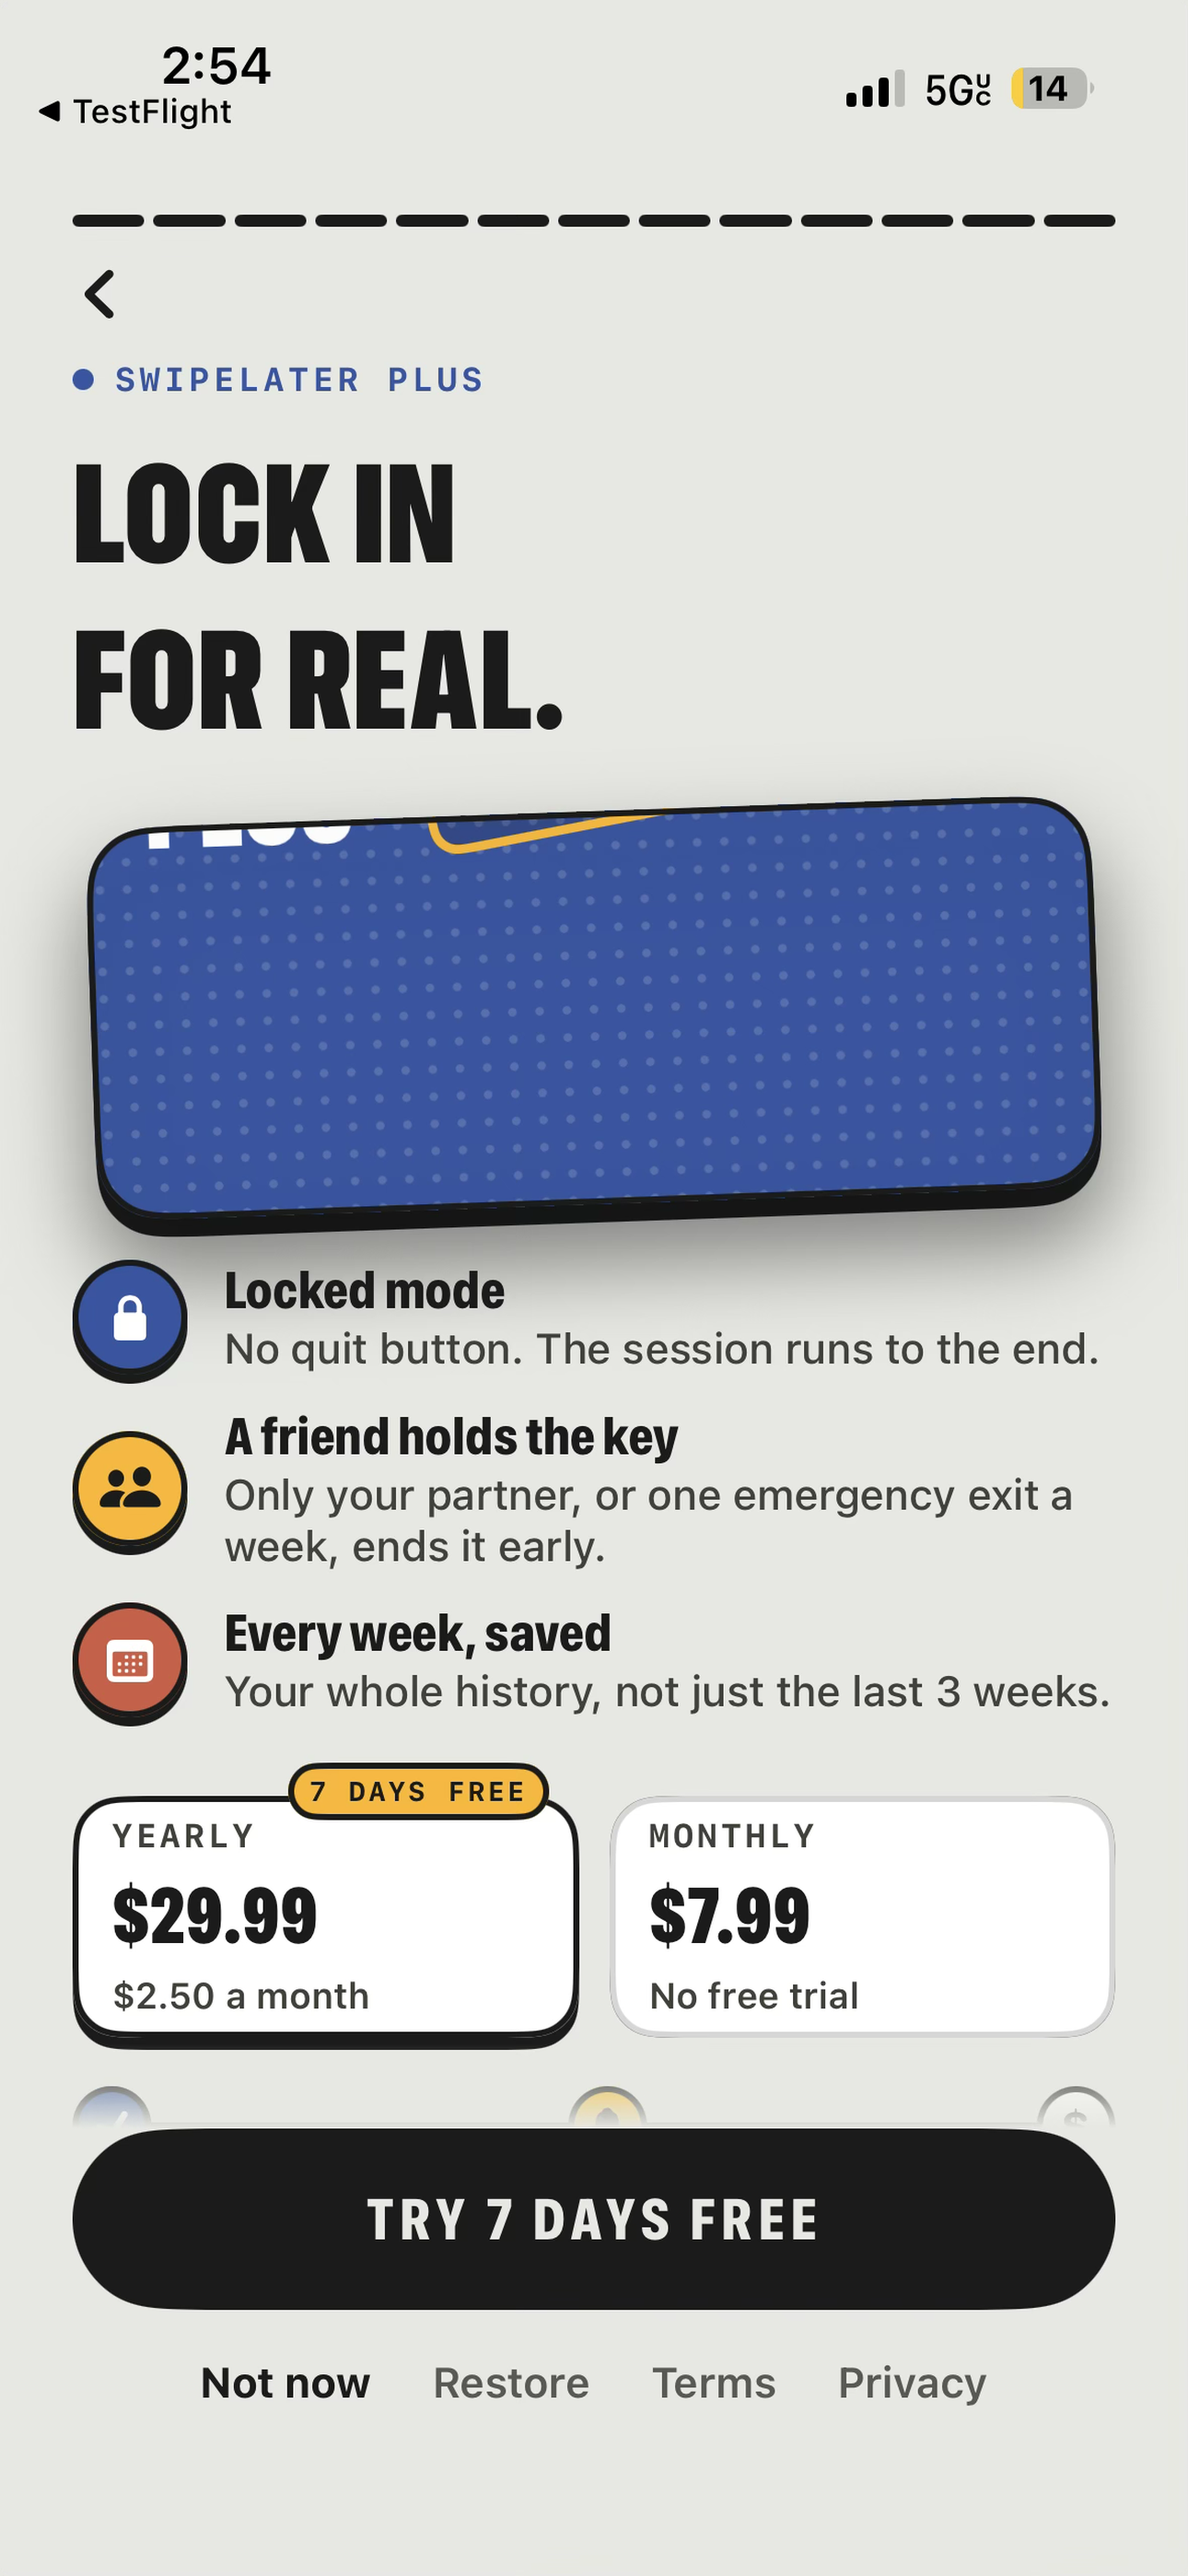
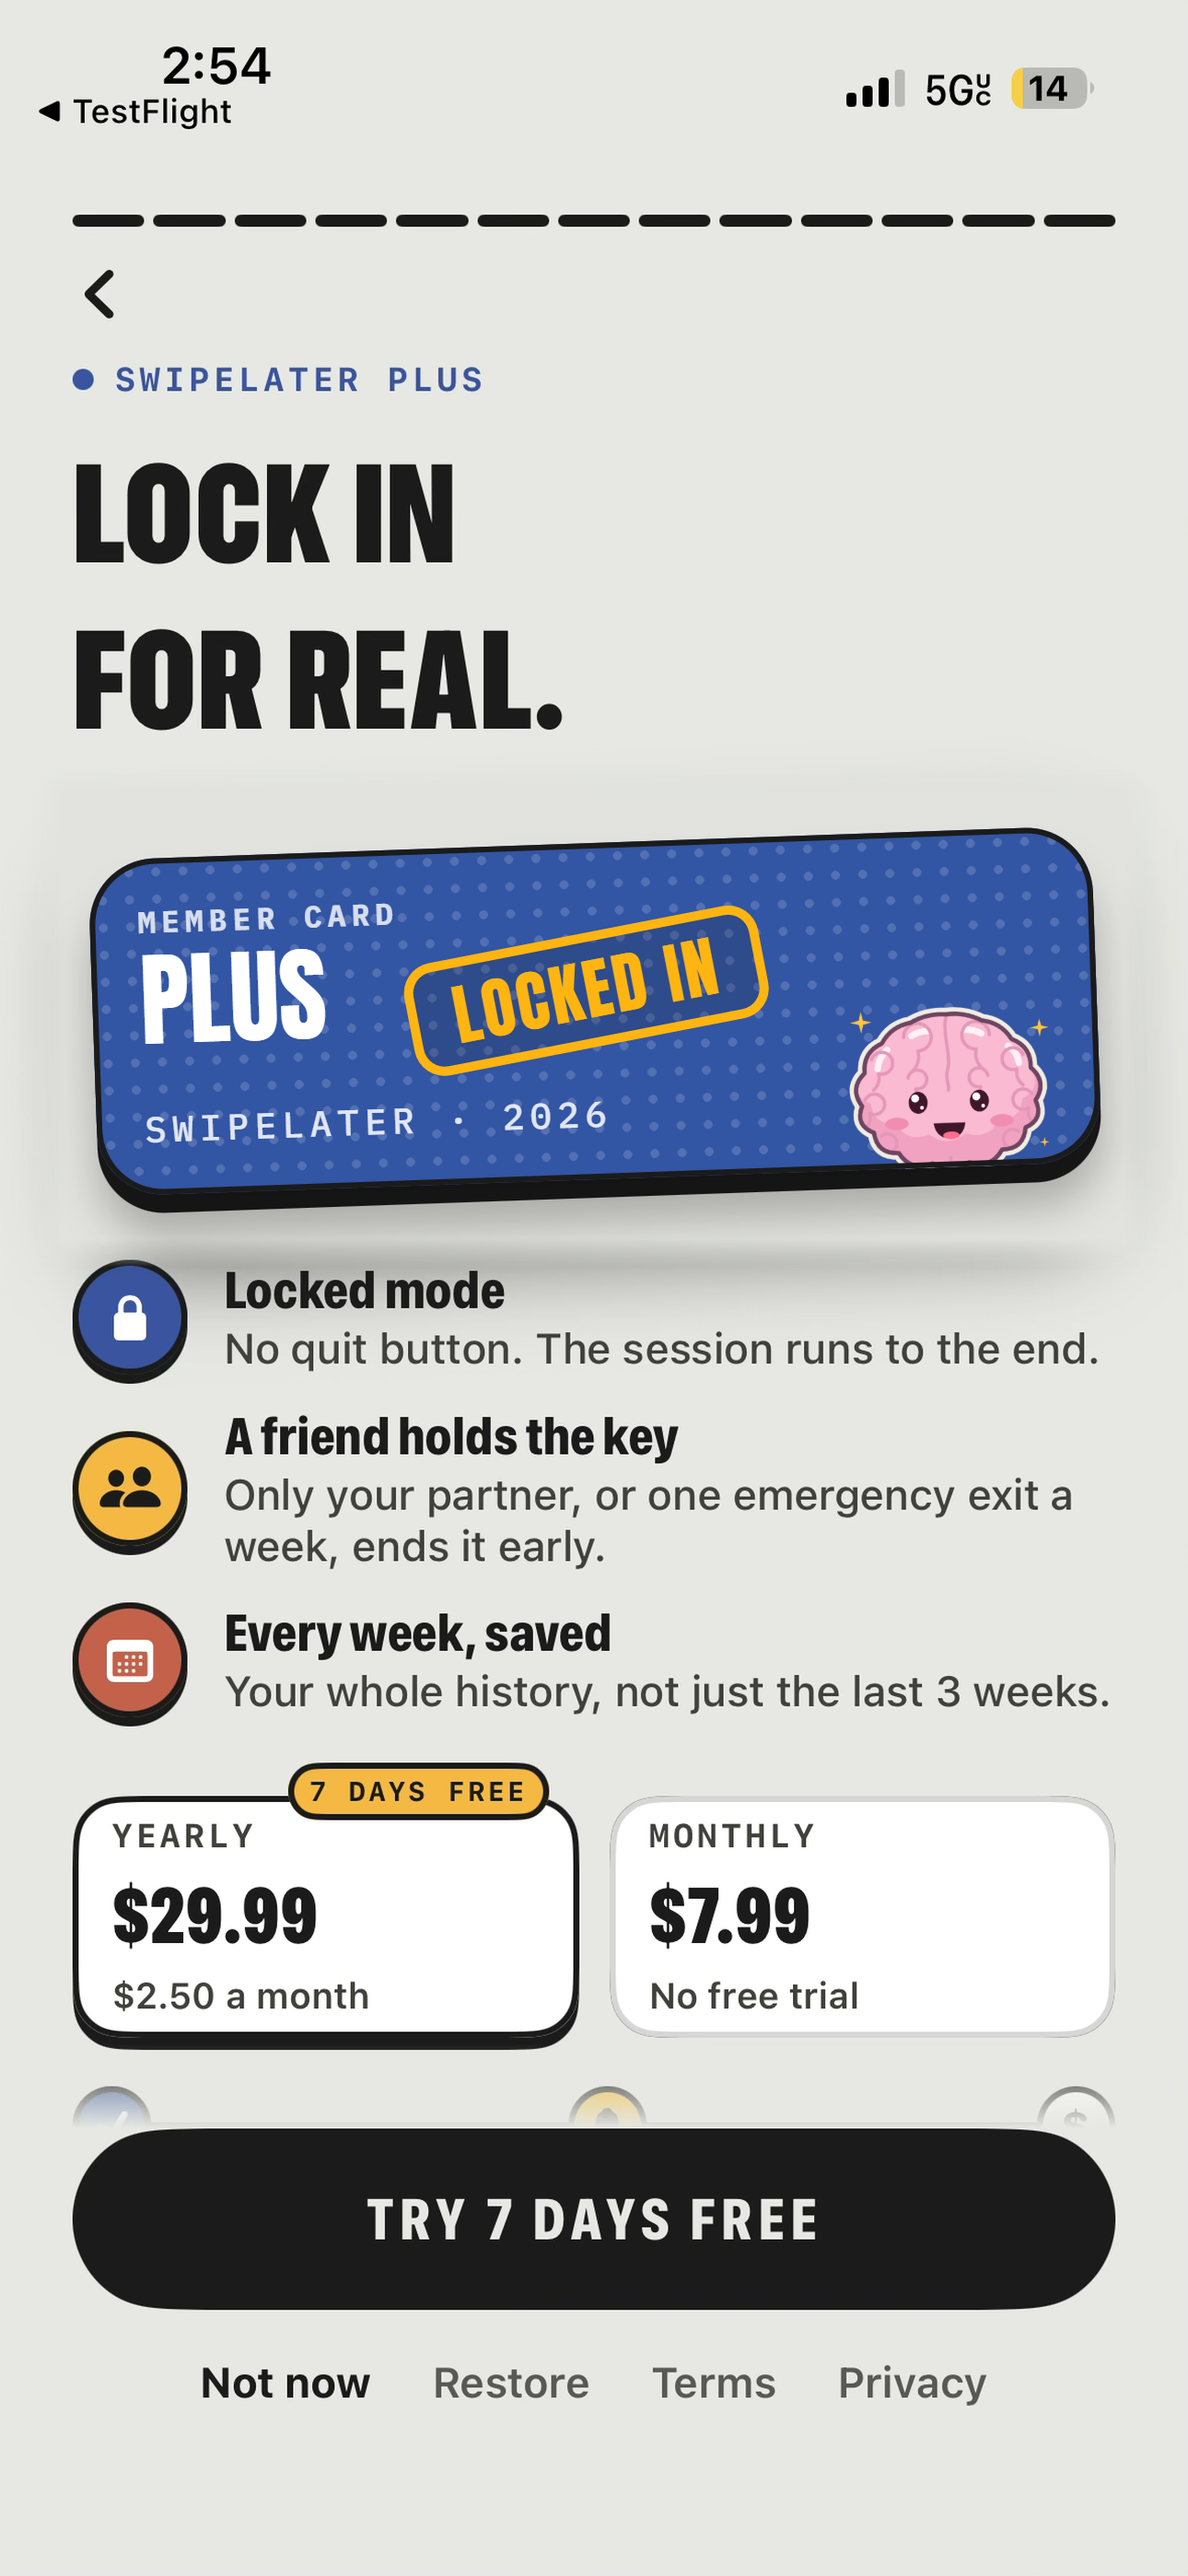
Plus review screenshot: member card redrawn whole (the old capture cut it off)

Changed region(s): [[0.062, 0.3112, 0.9612, 0.4979]]

diff --git a/docs/design/plus-review-fix.html b/docs/design/plus-review-fix.html
@@ -1,0 +1,47 @@
+<!doctype html>
+<html lang="en">
+<head>
+<meta charset="utf-8">
+<title>Plus review shot fix</title>
+<link href="https://fonts.googleapis.com/css2?family=Anton&family=IBM+Plex+Mono:wght@500;700&display=swap" rel="stylesheet">
+<style>
+/* The App Review screenshot of the Plus offer, with the member card redrawn the way the app draws it
+   now (PlusOfferStep.card, 1 pt = 3.28 px here). The old capture caught a build that cut "PLUS" off. */
+body { margin: 0; width: 1290px; height: 2796px; position: relative; overflow: hidden; }
+.bg { position: absolute; inset: 0; background: url(plus-review-shot.png) 0 0 / 1290px 2796px; }
+.patch { position: absolute; left: 30px; top: 830px; width: 1230px; height: 545px; background: #E2E3DE;
+  -webkit-mask: linear-gradient(90deg, transparent, #000 40px, #000 calc(100% - 40px), transparent),
+                linear-gradient(transparent, #000 30px, #000 calc(100% - 30px), transparent);
+  -webkit-mask-composite: source-in; mask-composite: intersect; }
+.wrap { position: absolute; left: 101px; top: 915px; width: 1090px; height: 365px; transform: rotate(-2deg); }
+.ink { position: absolute; left: 0; right: 0; top: 20px; bottom: -20px; border-radius: 72px; background: #1B1B1B; }
+.card { position: absolute; inset: 0; border-radius: 72px; overflow: hidden; background: #3255A4;
+  box-shadow: 0 46px 46px rgba(0,0,0,.25); }
+.dots { position: absolute; inset: 0; background-image: radial-gradient(rgba(255,255,255,.16) 4.6px, transparent 5px);
+  background-size: 29.5px 29.5px; background-position: 0 0; }
+.border { position: absolute; inset: 0; border-radius: 72px; border: 6.6px solid #1B1B1B; }
+.txt { position: absolute; left: 52px; top: 52px; bottom: 52px; color: #fff; display: flex; flex-direction: column; }
+.m1 { font: 700 33px/1 'IBM Plex Mono'; letter-spacing: 6px; opacity: .8; }
+.plus { font: 400 112px/1 Anton; margin-top: 13px; }
+.m2 { margin-top: auto; font: 500 39px/1 'IBM Plex Mono'; letter-spacing: 6.5px; opacity: .85; }
+.brain { position: absolute; right: 20px; bottom: -33px; width: 289px; }
+.stamp { position: absolute; left: 341px; top: 98px; font: 400 72px/1 Anton; letter-spacing: 3px; color: #FFB511;
+  padding: 16px 39px; border-radius: 33px; border: 10px solid #FFB511; background: rgba(27,27,27,.18); transform: rotate(-9deg); }
+</style>
+</head>
+<body>
+<div class="bg"></div>
+<div class="patch"></div>
+<div class="wrap">
+  <div class="ink"></div>
+  <div class="card">
+    <div class="dots"></div>
+    <div class="txt"><div class="m1">MEMBER CARD</div><div class="plus">PLUS</div><div class="m2">SWIPELATER · 2026</div></div>
+    <img class="brain" src="../../apps/ios/BrainArt/Assets.xcassets/BrainExact.imageset/BrainExact.png">
+    <div class="stamp">LOCKED IN</div>
+  </div>
+  <div class="border"></div>
+</div>
+<script>document.fonts.ready.then(() => Promise.all([...document.images].map(i => i.complete ? 1 : new Promise(r => i.onload = i.onerror = r)))).then(() => window.ready = true);</script>
+</body>
+</html>
